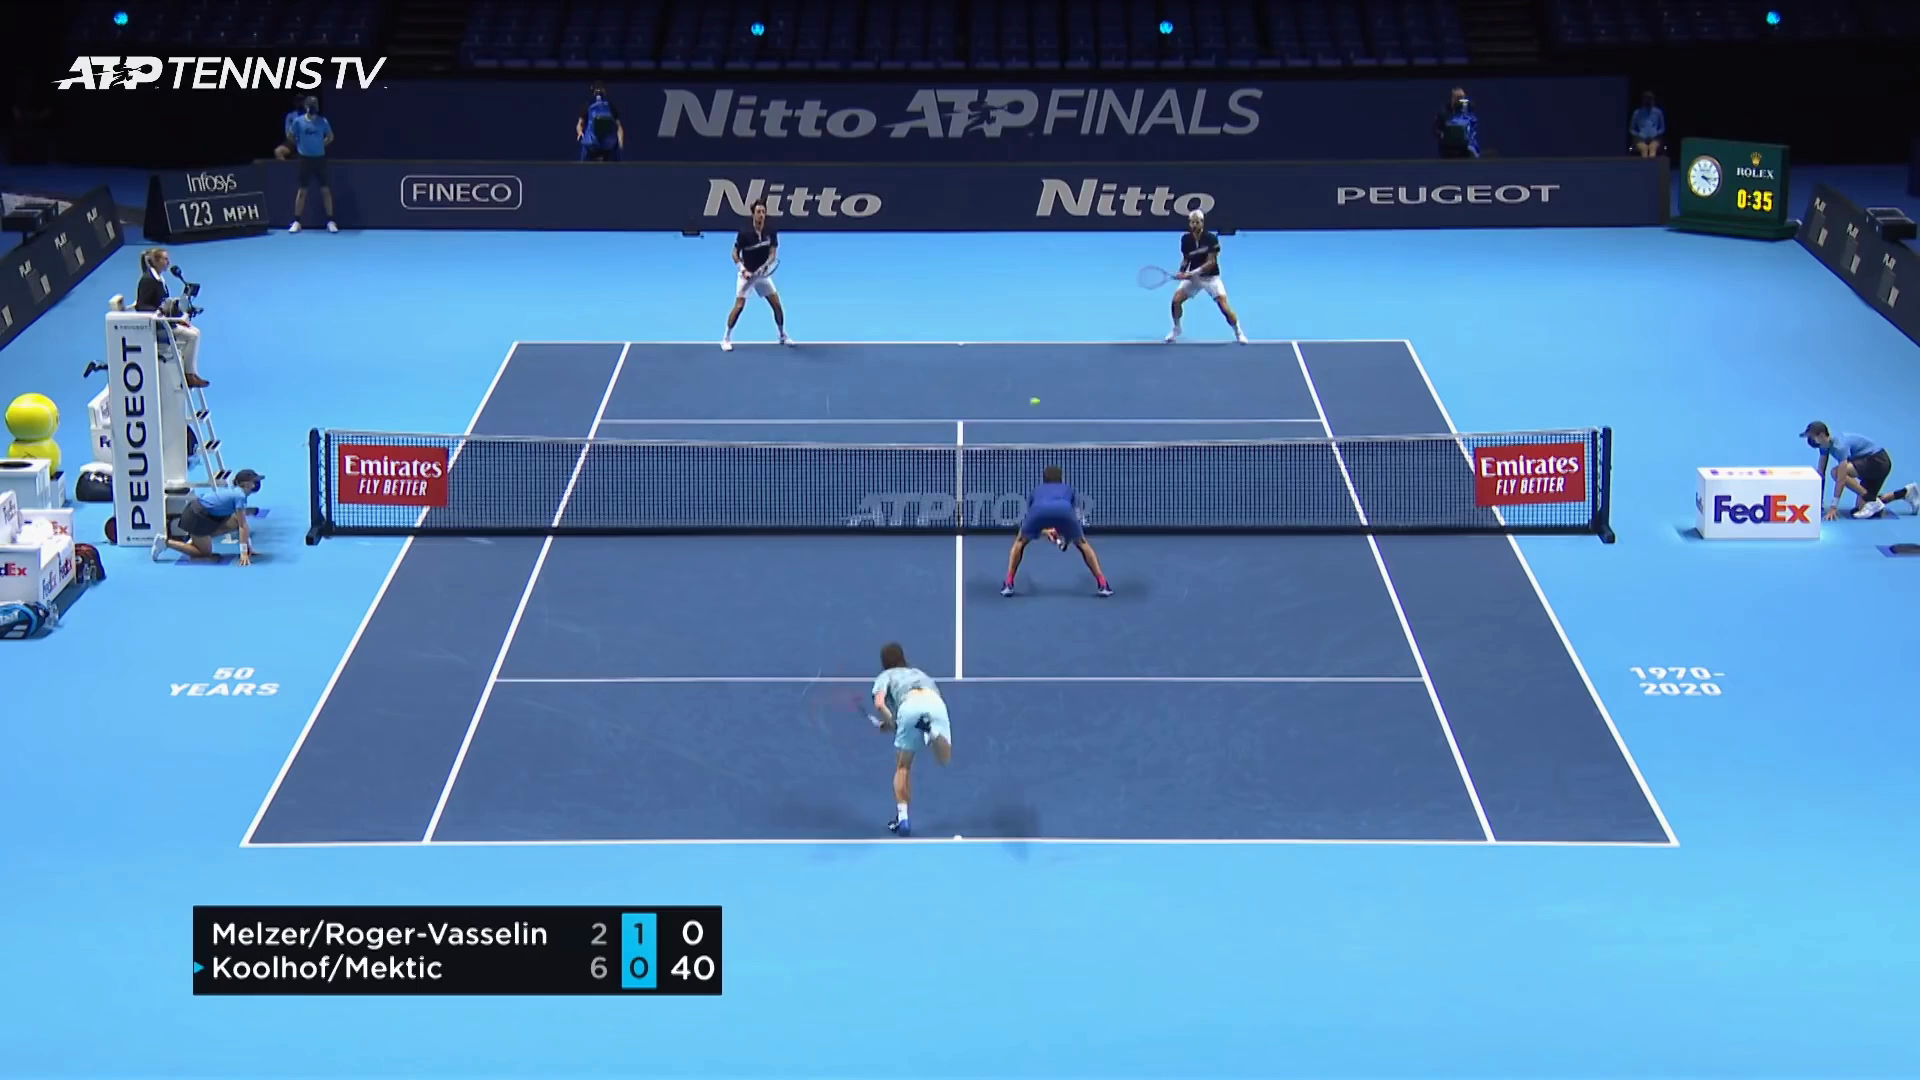
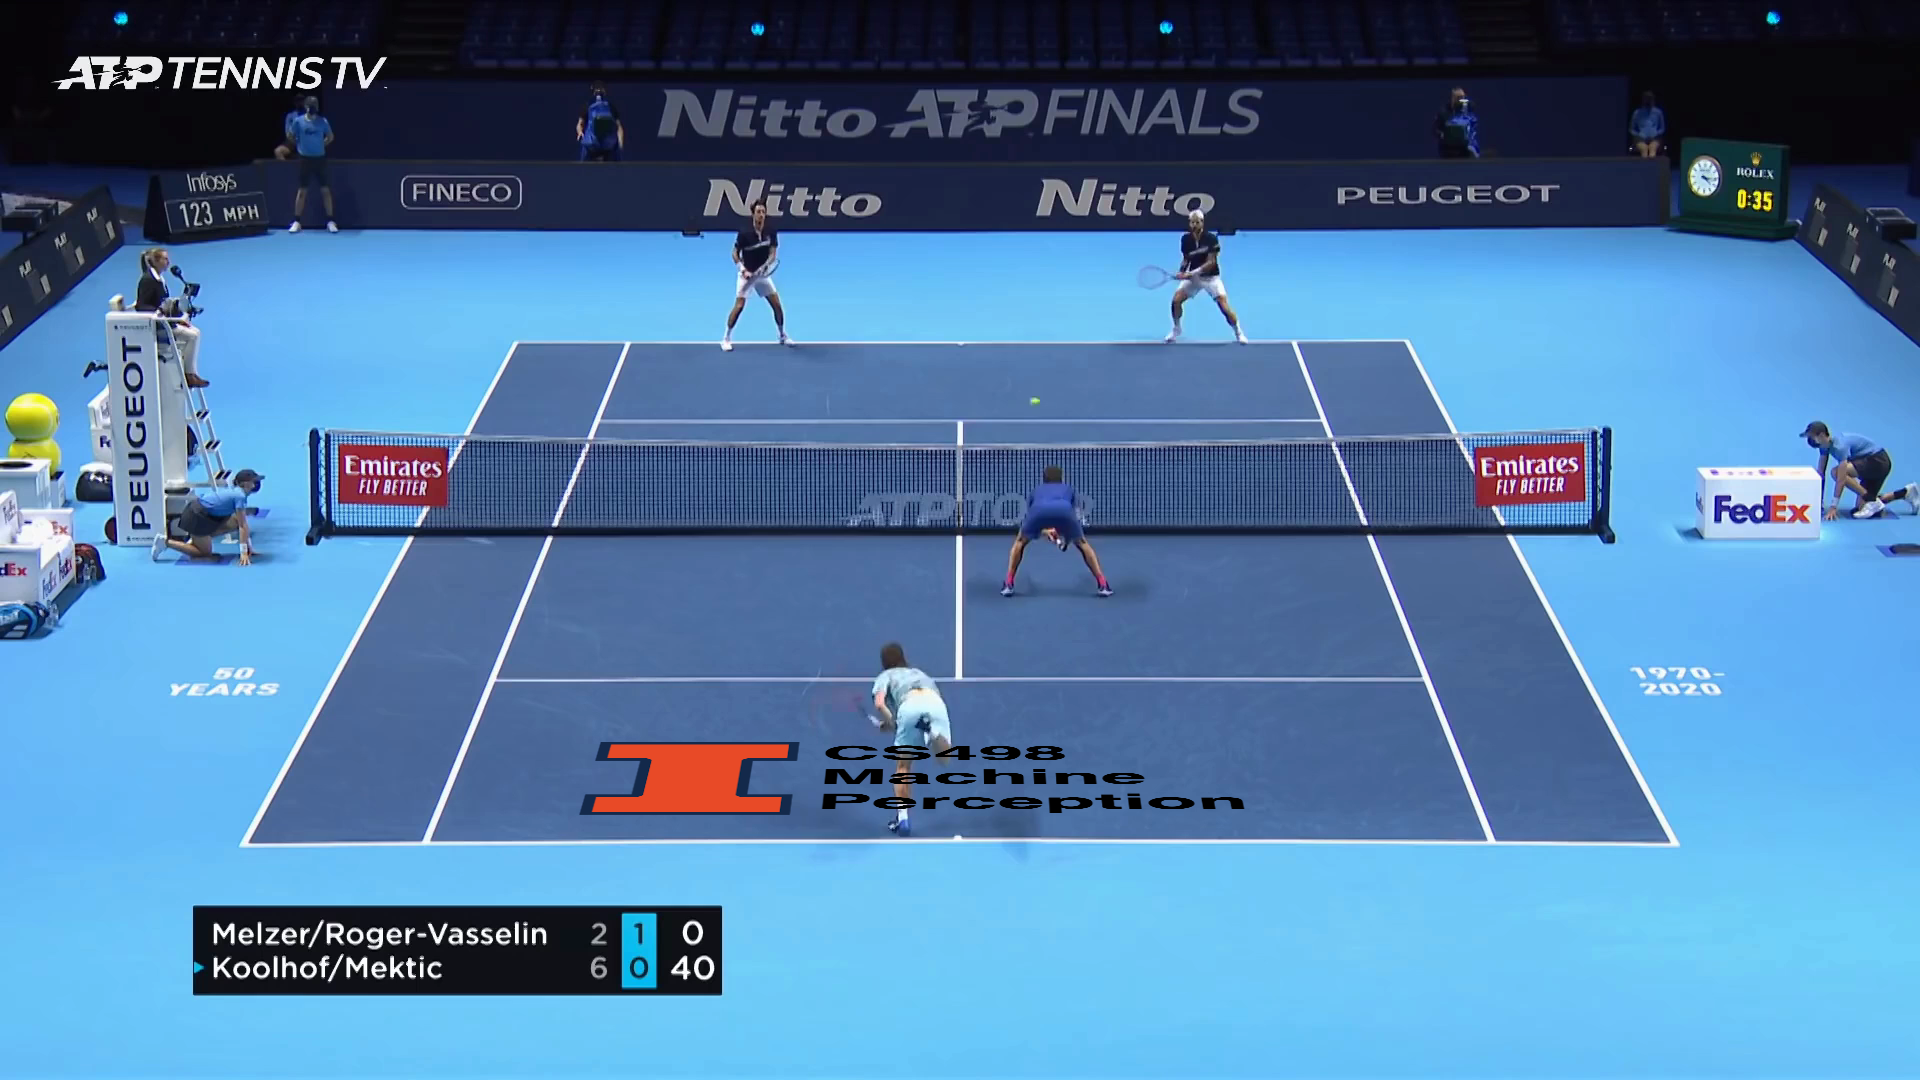
FINISH HW0

Changed region(s): [[0.2812, 0.6722, 0.6562, 0.7639]]

diff --git a/hw0/task1_homography.py b/hw0/task1_homography.py
@@ -62,14 +62,14 @@ TENNIS_UV = np.array(
 # origin and axes defined in the handout, and keep the A--H order unchanged.
 TENNIS_XY = np.array(
     [
-        [0.0, 0.0],  # A: replace
-        [0.0, 0.0],  # B: replace
-        [0.0, 0.0],  # C: replace
-        [0.0, 0.0],  # D: replace
-        [0.0, 0.0],  # E: replace
-        [0.0, 0.0],  # F: replace
-        [0.0, 0.0],  # G: replace
-        [0.0, 0.0],  # H: replace
+        [-5.485, 0.0],  # A: replace
+        [5.485, 0.0],  # B: replace
+        [-5.485, 23.77],  # C: replace
+        [5.485, 23.77],  # D: replace
+        [-4.115, 0.0],  # E: replace
+        [4.115, 0.0],  # F: replace
+        [-4.115, 23.77],  # G: replace
+        [4.115, 23.77],  # H: replace
     ],
     dtype=float,
 )
@@ -85,7 +85,40 @@ def estimate_homography(xy: np.ndarray, uv: np.ndarray) -> np.ndarray:
       3. use SVD to take its right-null-space vector;
       4. reshape, denormalize, and choose a stable matrix scale.
     """
-    return np.eye(3)  # Runnable placeholder: replace with your estimate.
+    def normalize(contours):
+        centroid = contours.mean(axis=0)
+        mean_distance = np.linalg.norm(contours - centroid,axis=1).mean()
+        scale = np.sqrt(2) / mean_distance
+        norm_matrix = np.array(
+            [[scale, 0.0, -scale*centroid[0]],
+             [0.0 ,scale, -scale*centroid[1]],
+             [0.0, 0.0, 1.0]
+             ]
+        )
+        return (contours - centroid) * scale, norm_matrix
+    #normalization
+    norm_xy, norm_matrix_xy = normalize(xy) #source
+    norm_uv, norm_matrix_uv = normalize(uv) #destination
+
+    #build the design matrix, dimension is 8*9 since we have four points
+    x, y = norm_xy[:,0], norm_xy[:,1]
+    u, v = norm_uv[:,0], norm_uv[:,1]
+    zeros, ones = np.zeros_like(x), np.ones_like(x)
+    even_rows = np.stack([zeros, zeros, zeros, x, y, ones, -v*x, -v*y, -v], axis=1)
+    odd_rows = np.stack([x, y, ones, zeros, zeros, zeros, -u*x, -u*y, -u], axis=1)
+    desgin_matrix = np.empty((2*len(x), 9))
+    desgin_matrix[0::2] = even_rows
+    desgin_matrix[1::2] = odd_rows
+
+    
+    U, S, Vt = np.linalg.svd(desgin_matrix)
+    norm_H = Vt[-1].reshape(3,3)
+    #norm_uv = norm_H @ norm_xy
+    #norm_matrix_uv @ uv = norm_H @ norm_matrix_xy @ xy
+    #uv = (norm_matrix_uv_inv @ norm_H @ norm_matrix_xy) @ xy
+    #so H = norm_matrix_uv_inv @ norm_H @ norm_matrix_xy
+    H = np.linalg.inv(norm_matrix_uv) @ norm_H @ norm_matrix_xy
+    return H / np.linalg.norm(H) #stable scale, ||H|| = 1
 
 
 def logo_to_image_homography(
@@ -100,8 +133,15 @@ def logo_to_image_homography(
     court_to_image. Include the vertical flip because logo pixel y points down
     while court y points up.
     """
-    del logo_shape, lower_left_xy, size_xy
-    return np.asarray(court_to_image, dtype=float)  # Runnable placeholder.
+    #since logo_shape is tuple[int, ...] I can't simply assign h,w = logo_shape
+    h, w = logo_shape[:2]
+    x0, y0 = lower_left_xy
+    sx, sy = size_xy
+    logo_to_court = np.array([[sx/w, 0.0, x0],
+                             [0.0, -sy/h, y0+sy],
+                             [0.0, 0.0, 1.0]])
+    H = court_to_image @ logo_to_court
+    return H / np.linalg.norm(H)
 
 
 def alpha_blend(foreground_rgba: np.ndarray, background_rgb: np.ndarray) -> np.ndarray:
@@ -111,8 +151,8 @@ def alpha_blend(foreground_rgba: np.ndarray, background_rgb: np.ndarray) -> np.n
     handout. Alpha is the final channel of foreground_rgba and must blend all
     three foreground RGB channels with the matching background pixel.
     """
-    del foreground_rgba
-    return np.asarray(background_rgb, dtype=float).copy()  # Runnable placeholder.
+    alpha = foreground_rgba[..., 3:4]
+    return alpha * foreground_rgba[..., :3] + (1.0 - alpha) * background_rgb
 
 
 # ------------------- DO NOT MODIFY CODE OUTSIDE THE BLOCK --------------------

diff --git a/hw0/task2_projection.py b/hw0/task2_projection.py
@@ -36,11 +36,44 @@ def estimate_projection_matrix(xyz: np.ndarray, uv: np.ndarray) -> np.ndarray:
     design matrix using its matching UV pixel, solve the right null space with
     SVD, reshape to 3 x 4, and choose a stable scale.
     """
-    del xyz, uv
-    intrinsic = np.array([[1000.0, 0.0, 960.0], [0.0, 1000.0, 540.0], [0.0, 0.0, 1.0]])
-    rotation = np.diag([1.0, -1.0, -1.0])
-    camera_center = np.array([14.0, -15.0, 10.0])
-    return intrinsic @ np.column_stack((rotation, -rotation @ camera_center))
+    def normalize_3d(contours):
+        centroid = contours.mean(axis=0)
+        mean_distance = np.linalg.norm(contours - centroid,axis=1).mean()
+        scale = np.sqrt(3) / mean_distance
+        norm_matrix = np.array(
+            [[scale, 0.0, 0.0, -scale*centroid[0]],
+             [0.0, scale, 0.0, -scale*centroid[1]],
+             [0.0, 0.0, scale, -scale*centroid[2]],
+             [0.0, 0.0, 0.0, 1.0]
+             ]
+        )
+        return (contours - centroid) * scale, norm_matrix
+    def normalize_2d(contours):
+        centroid = contours.mean(axis=0)
+        mean_distance = np.linalg.norm(contours - centroid,axis=1).mean()
+        scale = np.sqrt(2) / mean_distance
+        norm_matrix = np.array(
+            [[scale, 0.0, -scale*centroid[0]],
+             [0.0 ,scale, -scale*centroid[1]],
+             [0.0, 0.0, 1.0]
+             ]
+        )
+        return (contours - centroid) * scale, norm_matrix
+
+    norm_xyz, norm_matrix_xyz = normalize_3d(xyz)
+    norm_uv, norm_matrix_uv = normalize_2d(uv)
+    x, y, z = norm_xyz[:,0], norm_xyz[:,1], norm_xyz[:,2]
+    u, v = norm_uv[:,0], norm_uv[:,1]
+    zeros, ones = np.zeros_like(x), np.ones_like(x)
+    even_rows = np.stack([x, y, z, ones, zeros, zeros, zeros, zeros, -u*x, -u*y, -u*z, -u], axis=1)
+    odd_rows = np.stack([zeros, zeros, zeros, zeros, x, y, z, ones, -v*x, -v*y, -v*z, -v], axis=1)
+    desgin_matrix = np.empty((2*len(x), 12))
+    desgin_matrix[0::2] = even_rows
+    desgin_matrix[1::2] = odd_rows
+    U, S, Vt = np.linalg.svd(desgin_matrix)
+    norm_P = Vt[-1].reshape(3,4)
+    P = np.linalg.inv(norm_matrix_uv) @ norm_P @ norm_matrix_xyz
+    return P / np.linalg.norm(P)
 
 
 # ------------------- DO NOT MODIFY CODE OUTSIDE THE BLOCK --------------------

diff --git a/hw0/task3_epipolar.py b/hw0/task3_epipolar.py
@@ -25,8 +25,31 @@ def estimate_fundamental_matrix(matches: np.ndarray) -> np.ndarray:
       4. enforce rank two by zeroing the smallest singular value; and
       5. denormalize and choose a stable scale.
     """
-    del matches
-    return np.array([[0.0, 0.0, 0.0], [0.0, 0.0, -1.0], [0.0, 1.0, 0.0]])
+    def normalize_2d(contours):
+        centroid = contours.mean(axis=0)
+        mean_distance = np.linalg.norm(contours - centroid,axis=1).mean()
+        scale = np.sqrt(2) / mean_distance
+        norm_matrix = np.array(
+            [[scale, 0.0, -scale*centroid[0]],
+             [0.0 ,scale, -scale*centroid[1]],
+             [0.0, 0.0, 1.0]
+             ]
+        )
+        return (contours - centroid) * scale, norm_matrix
+    norm_p1, norm_matrix_1 = normalize_2d(matches[:, 0:2]) #view 1
+    norm_p2, norm_matrix_2 = normalize_2d(matches[:, 2:4]) #view 2
+    #build the N x 9 design matrix, one row per match from x2^T F x1 = 0
+    u1, v1 = norm_p1[:,0], norm_p1[:,1]
+    u2, v2 = norm_p2[:,0], norm_p2[:,1]
+    ones = np.ones_like(u1)
+    desgin_matrix = np.stack([u2*u1, u2*v1, u2, v2*u1, v2*v1, v2, u1, v1, ones], axis=1)
+    U, S, Vt = np.linalg.svd(desgin_matrix)
+    norm_F = Vt[-1].reshape(3,3)
+    Uf, Sf, Vtf = np.linalg.svd(norm_F)
+    Sf[-1] = 0.0
+    norm_F = Uf @ np.diag(Sf) @ Vtf
+    F = norm_matrix_2.T @ norm_F @ norm_matrix_1
+    return F / np.linalg.norm(F)
 
 
 # ------------------- DO NOT MODIFY CODE OUTSIDE THE BLOCK --------------------
